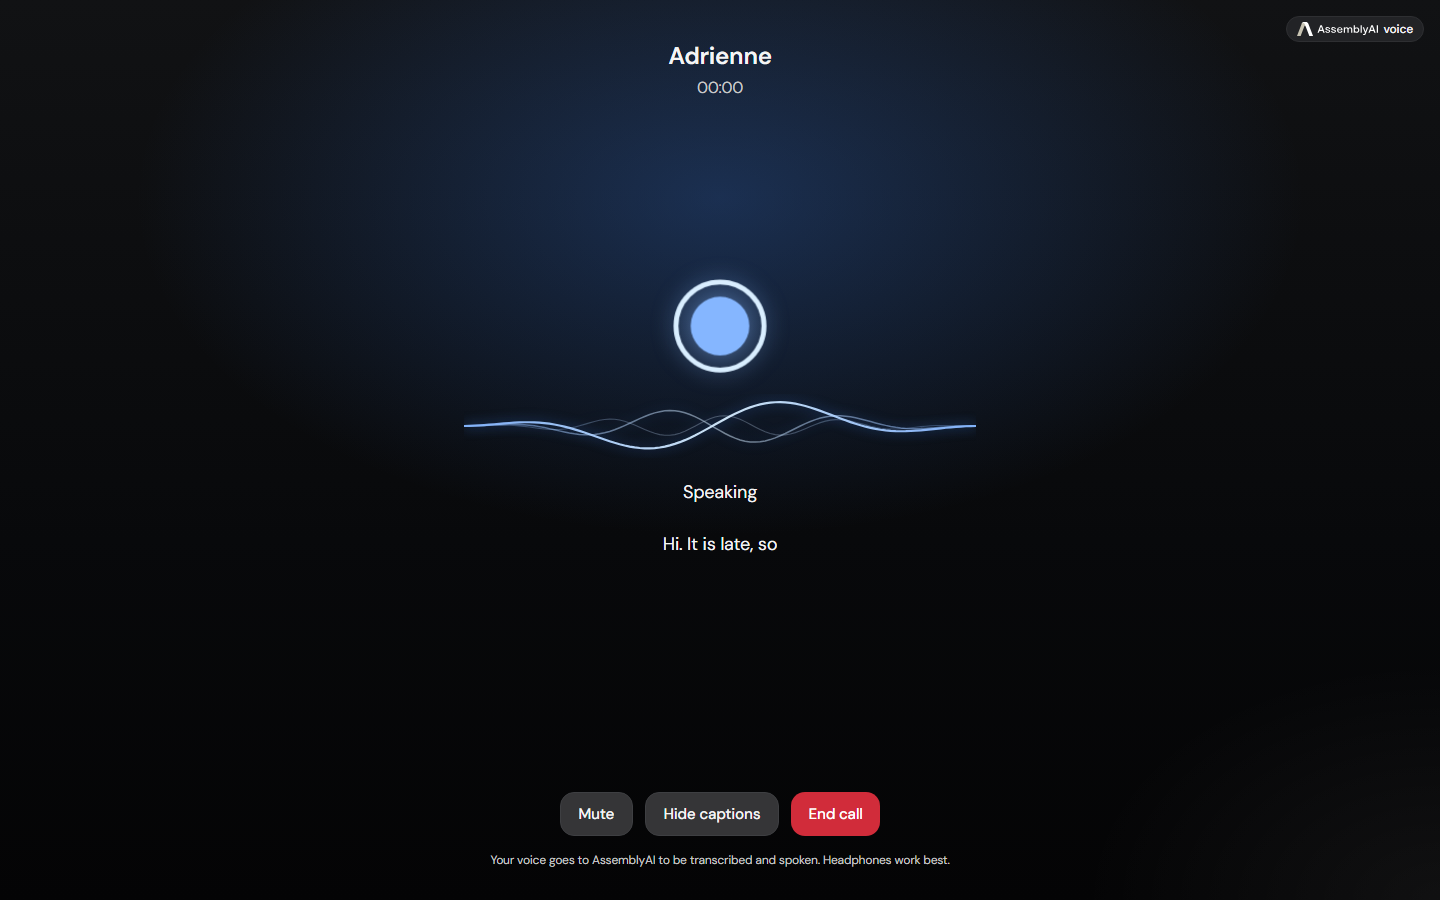
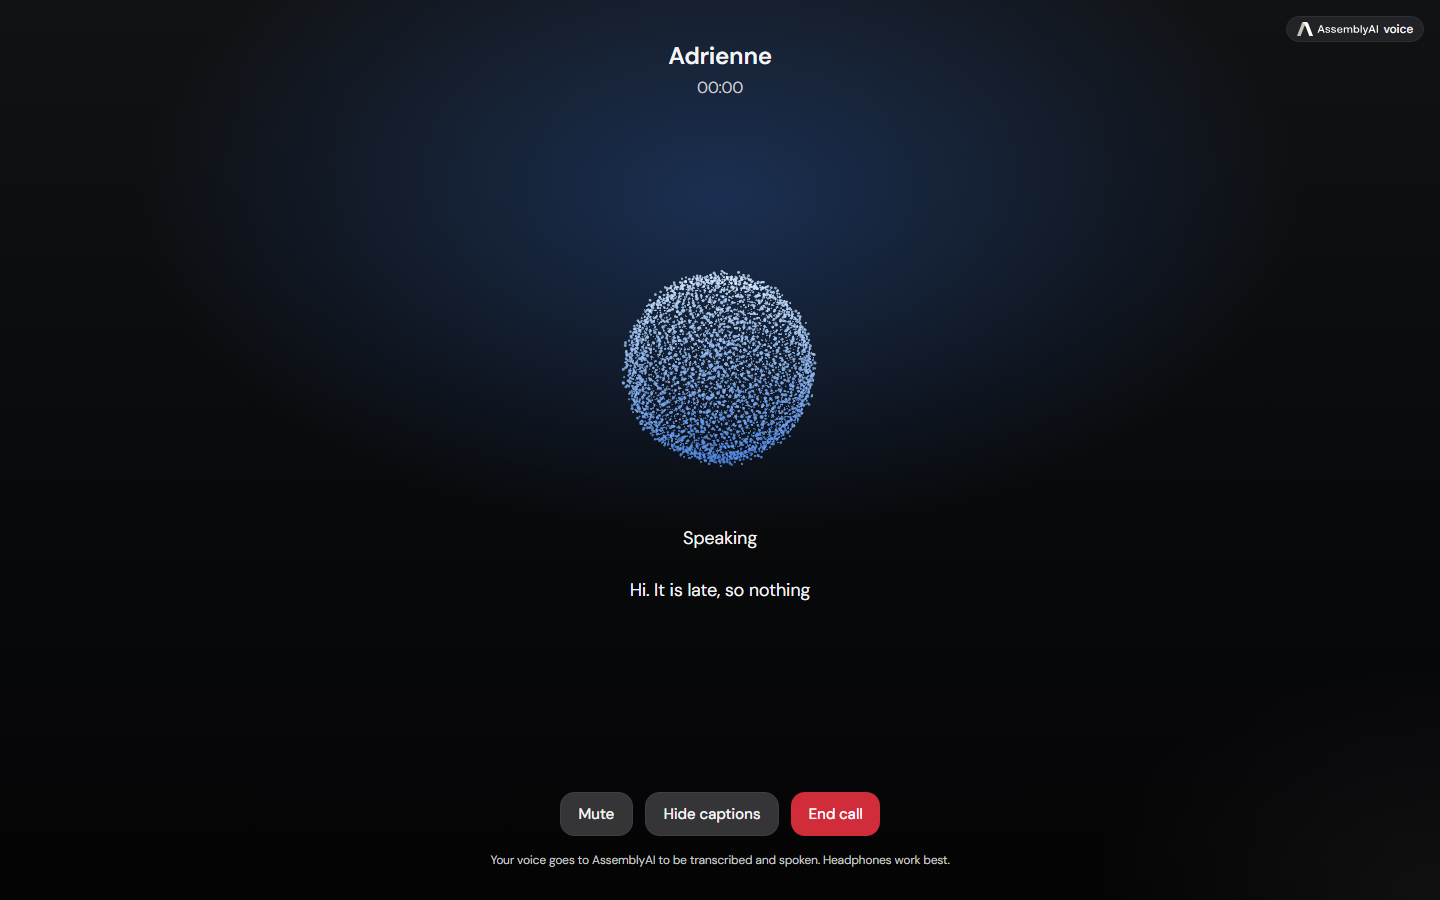
fix(ui): call screen uses the landing particle orb; remove the wave line under the orb

diff --git a/tests/e2e/signal.spec.ts b/tests/e2e/signal.spec.ts
@@ -59,14 +59,12 @@ test.describe('STAY Signal: the wave is driven by real audio and tells the truth
     await page.getByTestId('call-direct-stay-btn').click();
     const overlay = page.getByTestId('call-overlay');
     await expect(overlay).toHaveAttribute('data-call-state', 'ringing');
-    await expect(overlay.getByTestId('signal-wave')).toHaveAttribute('data-signal-state', 'connecting');
+    await expect(overlay.getByTestId('call-orb')).toBeVisible(); // the same particle orb as the landing page
     const consent = page.getByRole('button', { name: /start talking/i });
     if (await consent.isVisible({ timeout: 5000 }).catch(() => false)) await consent.click();
     await expect(overlay).toHaveAttribute('data-call-state', 'connected', { timeout: 12000 });
 
     await page.getByTestId('call-mute').click();
-    await expect(overlay.getByTestId('signal-wave')).toHaveAttribute('data-signal-state', 'paused');
-    await expect.poll(async () => Number((await overlay.getByTestId('signal-wave').getAttribute('data-drive')) ?? '1'), { timeout: 2000 }).toBe(0);
     await expect(page.getByTestId('call-state')).toHaveText('You are muted');
 
     // captions can be hidden and shown; the controls are real buttons
@@ -97,15 +95,12 @@ test.describe('STAY Signal: the wave is driven by real audio and tells the truth
     await page.mouse.wheel(0, 1800);
     await page.waitForTimeout(600);
     expect(await page.evaluate(() => (window as unknown as { __gum: number }).__gum)).toBe(0);
-    // the hero wave is decorative and flat of audio
-    await expect(page.getByTestId('hero-orb').getByTestId('signal-wave')).toHaveAttribute('data-drive', '0.00');
   });
 
   test('reduced motion: the hero shows a still wave and everything still works', async ({ page }) => {
     await page.emulateMedia({ reducedMotion: 'reduce' });
     await page.goto('/');
-    const w = page.getByTestId('hero-orb').getByTestId('signal-wave');
-    await expect(w).toBeVisible();
+    await expect(page.getByTestId('hero-orb').locator('canvas').first()).toBeVisible();
     await expect(page.getByTestId('hero-start')).toBeVisible();
     await page.getByTestId('hero-chips').getByRole('button', { name: 'Taxes' }).click();
     await expect(page.getByTestId('hero-input')).toHaveValue('my taxes');

diff --git a/src/components/voice/CallStayOverlay.tsx b/src/components/voice/CallStayOverlay.tsx
@@ -1,9 +1,8 @@
 'use client';
 
 import { useEffect, useRef, useState } from 'react';
-import type { VoiceVisualState } from '@/types/domain';
-import { SubtleOrb } from '@/components/voice/SubtleOrb';
-import { SignalWave } from '@/components/signal/SignalWave';
+import type { AudioSpectrumBands, VoiceVisualState } from '@/types/domain';
+import { Signal } from '@/components/Signal';
 import { TransportBadge } from '@/components/voice/TransportBadge';
 import type { VoiceTransportInfo } from '@/lib/voice/useVoiceAgent';
 import { NUDGE_INSTRUCTIONS, WRAP_INSTRUCTION, formatClock, nextCallAction } from '@/lib/voice/callMode';
@@ -18,6 +17,7 @@ export interface CallVoice {
   injectContext: (content: string) => boolean;
   disconnectVoiceSession: () => void;
   audioEnergy: number;
+  audioBands?: AudioSpectrumBands;
   transcripts: Array<{ id: string; role: string; text: string }>;
   /** the assistant's words as they are being rendered (word-synced to playback) */
   liveSpokenText: string;
@@ -150,9 +150,10 @@ export function CallStayOverlay({ voice, connected, name, paused = false, onEnd 
       </div>
 
       <div className="flex flex-col items-center gap-5">
-        <SubtleOrb state={signalState} energy={connected && !voice.isHandsFreePaused ? voice.audioEnergy : 0} size={96} />
-        {/* the wave follows the real microphone while listening and the audible assistant audio while speaking; flat otherwise */}
-        <SignalWave state={signalState} height={64} className="w-[min(24rem,84vw)]" />
+        {/* the same particle orb as the landing page */}
+        <div className="h-[min(17rem,42vh)] w-[min(17rem,70vw)]" data-testid="call-orb">
+          <Signal state={signalState} energy={connected && !voice.isHandsFreePaused ? voice.audioEnergy : 0} bands={connected && !voice.isHandsFreePaused ? voice.audioBands : undefined} hideLabel className="h-full w-full" />
+        </div>
         <p aria-live="polite" className="text-lg" data-testid="call-state">{label}</p>
         {captions && connected && (
           <div className="min-h-[5.5rem] w-[min(32rem,88vw)] space-y-1 text-center" data-testid="call-captions">

diff --git a/src/components/landing/Hero.tsx b/src/components/landing/Hero.tsx
@@ -4,7 +4,6 @@ import { useCallback, useEffect, useRef, useState } from 'react';
 import Link from 'next/link';
 import { Signal } from '@/components/Signal';
 import type { OrbTarget } from '@/components/orb/OrbParticles';
-import { SignalWave } from '@/components/signal/SignalWave';
 import { useOrbShape } from '@/lib/orb/useOrbShape';
 
 /** What the orb shows on its own until you touch the field: the kind of thing people actually avoid. */
@@ -159,8 +158,6 @@ export function Hero() {
 
       <div className="lp-hero-orb" data-testid="hero-orb" style={{ position: 'relative' }}>
         <Signal state={orb.thinking ? 'thinking' : 'idle'} energy={0} hideLabel shape={figure ?? orb.target} thinking={orb.thinking} className="h-full w-full" />
-        {/* decorative: resting breath, or the travelling highlight while the orb is working; never live audio on this page */}
-        <SignalWave state={orb.thinking ? 'thinking' : 'idle'} height={44} className="pointer-events-none absolute inset-x-[22%] bottom-[9%] w-[56%]" getLevels={() => ({ input: 0, output: 0 })} />
       </div>
     </section>
   );

diff --git a/docs/SIGNAL.md b/docs/SIGNAL.md
@@ -43,9 +43,9 @@ resampling is added: the two sources already existed for lip-sync and the captur
 
 | Place | Component | State source |
 |---|---|---|
-| Call Stay (ringing, connected, muted) | `CallStayOverlay` | `connecting` while ringing, `paused` when muted, otherwise the voice state |
+| Call Stay (ringing, connected, muted) | `CallStayOverlay`: the same particle orb as the landing page (it reacts to the audio level; no wave line) | `connecting` while ringing, `paused` when muted, otherwise the voice state |
 | Voice dock on /app/today | `SignalWave` (28 px) | `visual` state |
-| Landing hero (decorative) | `SignalWave` under the orb | `idle` or `thinking`; fed zero levels, so it never shows live audio |
+| Landing hero | the particle orb only (no wave line) | shape and thinking state |
 | Focus timer | `WaveProgress` | the real timer progress (not audio) |
 | Landing demo video seek bar | CSS | real video; glowing handle, blue progress, neutral track |
 
@@ -65,7 +65,7 @@ muted 7.3:1, accent 7.6:1, danger 6.9:1. Motion: press 120 ms at scale 0.97, sma
 - Added `src/lib/signal/signalBus.ts`, `src/lib/signal/signalModel.ts`, `src/components/signal/SignalWave.tsx`.
 - `useVoiceAgent.ts`: writes the real microphone level to `signalBus`; resets it when capture stops.
 - `CallStayOverlay.tsx`: rebuilt on `SignalWave`; captions toggle; transport diagnostics; safe-area insets.
-- `StayHome.tsx`: compact wave in the voice dock. `Hero.tsx`: decorative wave under the orb.
+- `StayHome.tsx`: compact wave in the voice dock. Call screen uses the landing particle orb (`Signal`).
 - `landing.css`: demo seek handle restyled. Theme tokens remapped to the supplied palette.
 - Tests: `tests/unit/signalModel.test.ts` (14), `tests/e2e/signal.spec.ts` (5).
 
